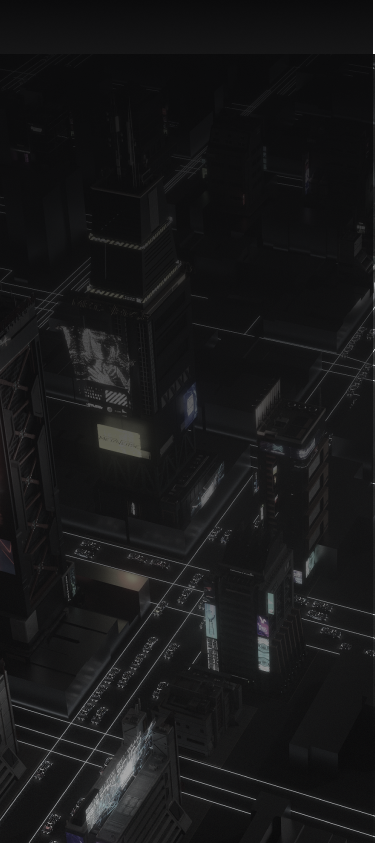
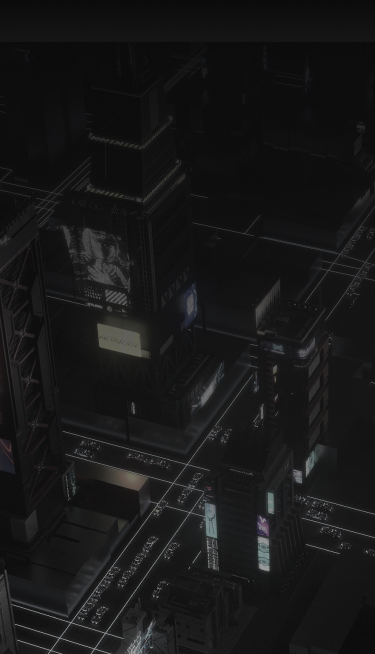
change background at marketplace

diff --git a/src/components/sections/Personalize/style.module.scss b/src/components/sections/Personalize/style.module.scss
@@ -84,6 +84,17 @@
     transform: rotate(-180deg);
   }
 
+  &:before {
+    content: '';
+    position: absolute;
+    top: 0;
+    right: 0;
+    left: 0;
+    height: 215px;
+    background: linear-gradient(180deg, #0B0B0C 0%, rgba(0, 0, 0, 0) 96.17%);
+    //transform: rotate(-180deg);
+  }
+
   @media screen and (min-width: $desktop) {
     background-image: url("../../../assets/images/marketplaceDesktop.png");
     display: flex;

diff --git a/src/components/sections/Personalize/Personalize.jsx b/src/components/sections/Personalize/Personalize.jsx
@@ -97,7 +97,7 @@ export const Personalize = () => {
 
 			<div className={classes.personalizeContainer}>
 				<Title classname={classes.marketplaceTitle}>
-					The <br />
+					Thea <br />
 					<GreenText>MARKETPLACE</GreenText>
 				</Title>
 				<div className={classes.content}>
